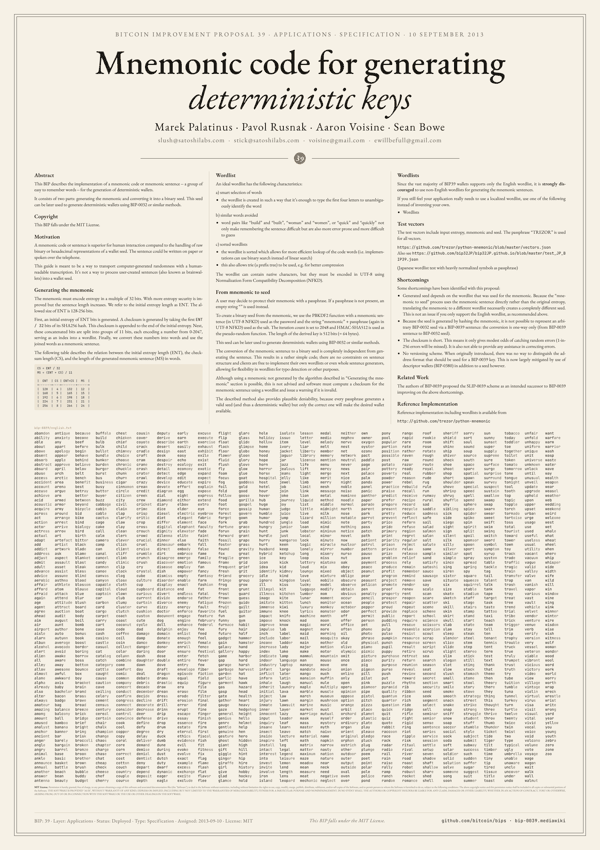
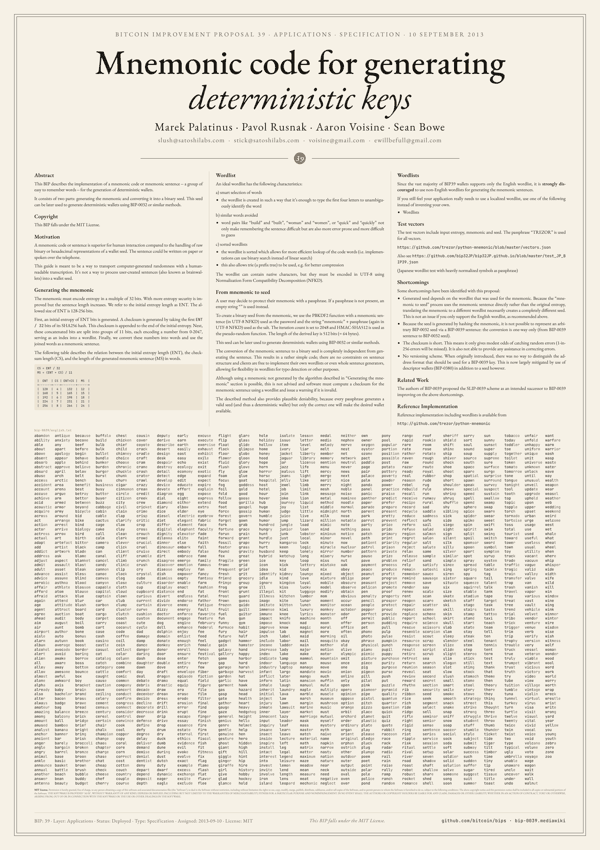
fix(engine): a block that opens with an inline tag is a paragraph
Any block that opened with "<" was raw HTML, passed through without a
<p> and without inline processing: a paragraph that begins with a
letter-spaced name in a <span>, or with a URL in <code>, lost its
footnote calls, inline math and quotes. Only a block that opens with a
block tag (div, table, figure, pre and the like) or a comment is raw
HTML now. Three papers in the making had to work around it.

Of the committed posters, bip-39 changes: its two paragraphs made of a
bare URL are now paragraphs, with the same body size and no visible
difference.

Changed region(s): [[0.06, 0.2753, 0.96, 0.9482]]

diff --git a/engine/markdown.py b/engine/markdown.py
@@ -21,7 +21,8 @@ Blocks (separated by blank lines):
   (1) text / (2a) text       labelled items; a label ending with a letter makes a sub-item,
                              kept in the same column as the item before it
   [^label]: text             footnote, listed with the others at the end of the text
-  <html ...>                 raw HTML, passed through
+  <div ...>, <table ...>     raw HTML, passed through, when the block opens with a block tag
+                             (see BLOCK_TAGS); one that opens with <span> or <b> is a paragraph
   anything else              paragraph
 Inline: **bold**, *italic*, `code`, \\( inline math \\) (KaTeX), [n] / [n-m] citations,
 [^label] footnote calls (numbered in order of first call), smart quotes.
@@ -62,6 +63,11 @@ def inline(s):
     s = re.sub(r'((?:\[\d+(?:-\d+)?\])+)', r'<cite>\1</cite>', s)
     return re.sub('\x00(\\d+)\x00', lambda m: codes[int(m.group(1))], smart(s))
 
+# the tags that make a block raw HTML when it opens with one of them
+BLOCK_TAGS = ('address', 'article', 'aside', 'blockquote', 'details', 'div', 'dl', 'figure', 'footer',
+              'h1', 'h2', 'h3', 'h4', 'h5', 'h6', 'header', 'hr', 'main', 'nav', 'ol', 'p', 'pre',
+              'section', 'style', 'svg', 'table', 'ul')
+RAW = re.compile(r'<!--|</?(?:' + '|'.join(BLOCK_TAGS) + r')[\s/>]', re.I)
 LABEL = re.compile(r'^\((\d+[a-z]?)\)\s+', re.M)
 NOTE_CALL = re.compile(r'\[\^([^\]\s]+)\]')
 NOTE_DEF = re.compile(r'\[\^([^\]\s]+)\]:\s+')
@@ -161,7 +167,7 @@ class Renderer:
                 if m.group(1) in self.notes:
                     raise MarkdownError(line, f'footnote [^{m.group(1)}] is defined twice')
                 self.notes[m.group(1)] = (line, b[m.end():])
-            elif b.startswith('<'):
+            elif RAW.match(b):
                 out.append(b)
             elif re.match(r'^\d+\.\s', b):
                 items = re.split(r'\n(?=\d+\.\s)', b)
